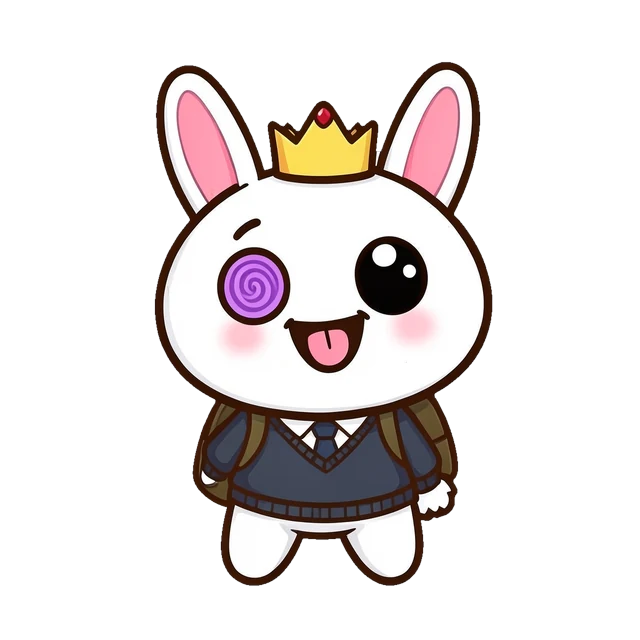
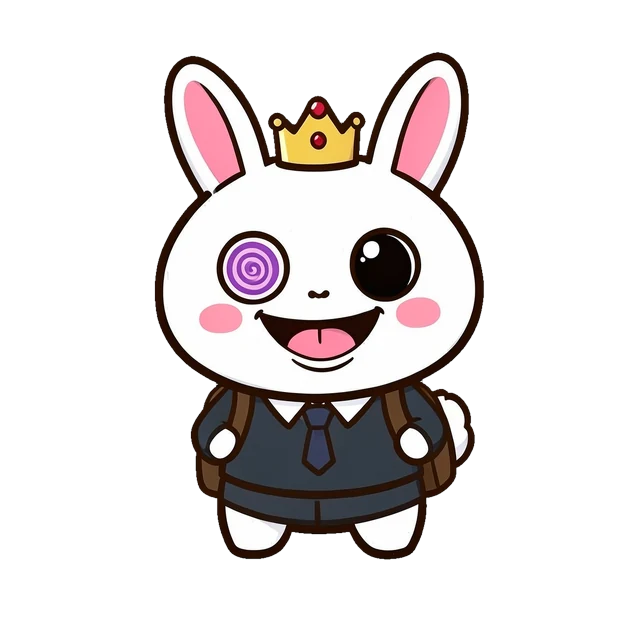
alfa 8c011c8: Pets: bases de CrazyBunny sobre la pose loco solo de cara

Changed region(s): [[0.2188, 0.0625, 0.7812, 0.9375]]

diff --git a/alfa/index.html b/alfa/index.html
@@ -10,10 +10,10 @@
 <link rel="preconnect" href="https://fonts.googleapis.com">
 <link rel="preconnect" href="https://fonts.gstatic.com" crossorigin>
 <link rel="stylesheet" href="https://fonts.googleapis.com/css2?family=Baloo+2:wght@600;700;800&family=Luckiest+Guy&display=swap">
-<link rel="stylesheet" href="core/css/base.css?v=6844b12">
-<link rel="stylesheet" href="biblioteca/tienda.css?v=6844b12">
-<link rel="stylesheet" href="novedades/ventana.css?v=6844b12">
-<link rel="stylesheet" href="biblioteca/votos.css?v=6844b12">
+<link rel="stylesheet" href="core/css/base.css?v=8c011c8">
+<link rel="stylesheet" href="biblioteca/tienda.css?v=8c011c8">
+<link rel="stylesheet" href="novedades/ventana.css?v=8c011c8">
+<link rel="stylesheet" href="biblioteca/votos.css?v=8c011c8">
 <style>
   /* la entrada de la web: una tarjeta por juego, con los colores y las letras de core */
   body { overflow: auto; touch-action: auto; align-items: flex-start; background-repeat: no-repeat; background-attachment: fixed; }
@@ -61,7 +61,7 @@
 </style>
 </head>
 <body>
-<script src="menu.js?v=6844b12" data-base="" data-core="1" data-pagina=""></script>
+<script src="menu.js?v=8c011c8" data-base="" data-core="1" data-pagina=""></script>
 <div class="nov-fondo" id="novedades" hidden>
   <div class="nov-caja" role="dialog" aria-modal="true" aria-labelledby="nov-titulo">
     <div class="nov-cabeza"><h2 class="ol" id="nov-titulo">NOVEDADES</h2><p id="nov-sub"></p></div>
@@ -345,8 +345,8 @@
   </section>
   <p class="note" id="pie-fansof">Fans Of™ · © 2026 Arkioner y Pepins · MicroBlizz · Todos los derechos reservados</p>
 </main>
-<script src="core/js/nucleo.js?v=0-a806.6844b12"></script>
-<script src="core/js/novedades.js?v=6844b12"></script>
+<script src="core/js/nucleo.js?v=0-a807.8c011c8"></script>
+<script src="core/js/novedades.js?v=8c011c8"></script>
 <script>
 // La cuenta de la web es la misma de los juegos (core/js/sistema/cuenta.js, mismo navegador = misma sesión). Aquí no hay partida que subir.
 const AJUSTES = { id: 'web', guardado: 'fansof-web' }, SAVE_KEY = AJUSTES.guardado, SAVE = {};
@@ -355,7 +355,7 @@ const HOOKS = {};
 function hook(name, fn) { (HOOKS[name] = HOOKS[name] || []).push(fn); }
 function fire(name, ...a) { let out = ''; for (const fn of HOOKS[name] || []) { const r = fn(...a); if (typeof r === 'string') out += r; } return out; }
 </script>
-<script src="core/js/sistema/cuenta.js?v=6844b12"></script>
+<script src="core/js/sistema/cuenta.js?v=8c011c8"></script>
 <script>NUCLEO.idiomaSolo({ en: ['core/idioma/en-raiz.js', 'novedades/en.js', 'biblioteca/en.js','games/rumble/idioma/en-7.js', 'games/td/idioma/en-2.js', 'games/survivors/idioma/en.js', 'games/crush/idioma/en-raiz.js', 'games/jump/idioma/en-raiz.js', 'games/taxi/idioma/en-raiz.js', 'games/dark/idioma/en-raiz.js', 'games/nova/idioma/en-raiz.js', 'demos/beams/idioma/en-raiz.js', 'demos/snakes/idioma/en-raiz.js', 'demos/merge/idioma/en-raiz.js', 'demos/swipe/idioma/en-raiz.js', 'demos/pop/idioma/en-raiz.js', 'demos/vikings/idioma/en-raiz.js', 'demos/goose/idioma/en-raiz.js', 'demos/asalto/idioma/en-raiz.js', 'demos/auto/idioma/en-raiz.js', 'demos/shelter/idioma/en-raiz.js', 'games/island/idioma/en-raiz.js', 'demos/rumble-3d/idioma/en-raiz.js', 'demos/roguelite/idioma/en-raiz.js', 'demos/tactics-advance/idioma/en-raiz.js', 'games/rouflage/idioma/en-raiz.js', 'demos/dungeons/idioma/en-raiz.js', 'games/karts/idioma/en-raiz.js', 'demos/recruit/idioma/en-raiz.js', 'demos/terminal-shock/idioma/en-raiz.js', 'games/ratkov/idioma/en-raiz.js'] })</script>
 <script>
 // La versión y las novedades salen de los archivos de cada juego, así que esta página nunca se queda atrás.
@@ -381,14 +381,14 @@ const fail = id => () => {
 };
 
 </script>
-<script src="core/js/proximamente.js?v=6844b12"></script>
-<script src="novedades/ventana.js?v=6844b12"></script>
-<script src="biblioteca/tienda.js?v=6844b12"></script>
-<script src="core/js/sistema/beta.js?v=6844b12"></script>
-<script src="biblioteca/cuenta-web.js?v=6844b12"></script>
-<script src="biblioteca/votos.js?v=6844b12"></script>
-<script src="biblioteca/alfa.js?v=6844b12"></script>
-<script src="core/js/sistema/analitica.js?v=6844b12"></script>
-<script src="pie.js?v=6844b12" defer></script>
+<script src="core/js/proximamente.js?v=8c011c8"></script>
+<script src="novedades/ventana.js?v=8c011c8"></script>
+<script src="biblioteca/tienda.js?v=8c011c8"></script>
+<script src="core/js/sistema/beta.js?v=8c011c8"></script>
+<script src="biblioteca/cuenta-web.js?v=8c011c8"></script>
+<script src="biblioteca/votos.js?v=8c011c8"></script>
+<script src="biblioteca/alfa.js?v=8c011c8"></script>
+<script src="core/js/sistema/analitica.js?v=8c011c8"></script>
+<script src="pie.js?v=8c011c8" defer></script>
 </body>
 </html>

diff --git a/alfa/games/pets/js/anclas.js b/alfa/games/pets/js/anclas.js
@@ -10,9 +10,9 @@ PT.anclas = (() => {
   const ENCUADRE = {
     'bebe-base': [0.8279, 0.0852, 0.0778], 'bebe-comer': [0.8279, 0.0852, 0.0778], 'bebe-beber': [0.8279, 0.0852, 0.0778],
     'bebe-bano': [0.84, 0.0755, 0.0776], 'bebe-ducha': [0.7296, 0.1359, 0.1746],
-    'nino-base-loco': [0.8982, 0.047, 0.0777], 'nino-comer': [0.8589, 0.0479, 0.0681], 'nino-beber': [0.8589, 0.0479, 0.0681],
+    'nino-base-loco': [0.8579, 0.0472, 0.0691], 'nino-comer': [0.8589, 0.0479, 0.0681], 'nino-beber': [0.8589, 0.0479, 0.0681],
     'nino-bano': [0.8309, 0.0732, 0.0855], 'nino-ducha': [0.7602, 0.1258, 0.1616],
-    'adulto-liso': [0.859, 0.068, 0.0689], 'adulto-base-loco': [0.8865, 0.0606, 0.082], 'adulto-comer': [0.859, 0.0684, 0.0689],
+    'adulto-liso': [0.859, 0.068, 0.0689], 'adulto-base-loco': [0.8601, 0.0678, 0.0687], 'adulto-comer': [0.859, 0.0684, 0.0689],
     'adulto-beber': [0.859, 0.0684, 0.0689], 'adulto-bano': [0.831, 0.0727, 0.0862], 'adulto-ducha': [0.7329, 0.1278, 0.1872],
   };
   const T = {
@@ -23,7 +23,7 @@ PT.anclas = (() => {
     'bebe-ducha': [[0.396, 0.531, 0.049, 0.052], [0.616, 0.533, 0.051, 0.053], [0.506, 0.645]],
     'nino-liso': [[0.367, 0.457, 0.065, 0.066], [0.686, 0.457, 0.066, 0.066], [0.526, 0.596]],
     'nino-base-concentrado': [[0.378, 0.388, 0.057, 0.06], [0.626, 0.383, 0.061, 0.062], [0.502, 0.517]],
-    'nino-base-loco': [[0.383, 0.402, 0.065, 0.069], [0.624, 0.382, 0.066, 0.069], [0.504, 0.547]],
+    'nino-base-loco': [[0.383, 0.402, 0.047, 0.048], [0.641, 0.402, 0.047, 0.048], [0.512, 0.504]],
     'nino-base-carinoso': [[0.38, 0.434, 0.055, 0.059], [0.625, 0.401, 0.057, 0.057], [0.502, 0.557]],
     'nino-base-gamberro': [[0.384, 0.376, 0.059, 0.059], [0.616, 0.37, 0.061, 0.06], [0.5, 0.501]],
     'nino-base-dormilon': [[0.379, 0.427, 0.061, 0.055], [0.616, 0.4, 0.066, 0.04], [0.498, 0.542]],
@@ -33,7 +33,7 @@ PT.anclas = (() => {
     'nino-ducha': [[0.384, 0.491, 0.048, 0.048], [0.624, 0.493, 0.048, 0.048], [0.504, 0.595]],
     'adulto-liso': [[0.372, 0.424, 0.062, 0.062], [0.637, 0.415, 0.059, 0.061], [0.504, 0.556]],
     'adulto-base-concentrado': [[0.379, 0.417, 0.059, 0.062], [0.624, 0.402, 0.059, 0.061], [0.502, 0.548]],
-    'adulto-base-loco': [[0.379, 0.411, 0.061, 0.068], [0.621, 0.393, 0.064, 0.068], [0.5, 0.554]],
+    'adulto-base-loco': [[0.385, 0.4, 0.047, 0.053], [0.615, 0.397, 0.049, 0.053], [0.5, 0.512]],
     'adulto-base-carinoso': [[0.379, 0.422, 0.056, 0.06], [0.612, 0.382, 0.057, 0.059], [0.496, 0.548]],
     'adulto-base-gamberro': [[0.382, 0.415, 0.059, 0.059], [0.624, 0.393, 0.059, 0.057], [0.503, 0.538]],
     'adulto-base-dormilon': [[0.378, 0.424, 0.06, 0.055], [0.591, 0.387, 0.07, 0.043], [0.484, 0.539]],

diff --git a/alfa/games/rouflage/index.html b/alfa/games/rouflage/index.html
@@ -10,7 +10,7 @@
 <link rel="preconnect" href="https://fonts.googleapis.com">
 <link rel="preconnect" href="https://fonts.gstatic.com" crossorigin>
 <link rel="stylesheet" href="https://fonts.googleapis.com/css2?family=Baloo+2:wght@600;700;800&family=Luckiest+Guy&display=swap">
-<script src="../../core/js/nucleo.js?v=0.2.63-a806.6844b12"></script>
+<script src="../../core/js/nucleo.js?v=0.2.63-a807.8c011c8"></script>
 <script>NUCLEO.estilos('../../core/css/base.css', '../../core/css/menus.css', '../../core/css/menus-extra.css')</script>
 <script>NUCLEO.estilos('estilo.css', 'estilo-taller.css', 'estilo-pantallas.css', 'estilo-pvp.css', 'estilo-armario.css', 'estilo-menus.css', 'estilo-misiones.css', 'estilo-escenario.css', 'estilo-votos.css', 'estilo-gacha.css', 'estilo-compra.css', 'estilo-fin.css', 'estilo-talentos.css', 'estilo-chat.css', 'estilo-titulo.css', 'estilo-barra.css', 'estilo-sala-viva.css', 'estilo-obra.css', 'estilo-ayuda.css', 'estilo-carga.css')</script>      <!-- la intro, la última: pisa el #carga de estilo.css (antes iba en línea dentro de #carga) -->
 </head>

diff --git a/alfa/demos/rumble-v2/index.html b/alfa/demos/rumble-v2/index.html
@@ -18,7 +18,7 @@
 <!-- core/js/nucleo.js carga lo común y el juego. LA VERSIÓN SE ESCRIBE SOLO AQUÍ, en su ?v= -->
 <!-- GENERADO por herramientas/rumble_v2.py desde games/rumble/index.html: no editar a mano -->
 <script>try { const u = new URL(location.href); if (u.searchParams.get('nube') !== '0') { u.searchParams.set('nube', '0'); history.replaceState(null, '', u); } } catch (e) { /* sin dirección */ }</script>
-<script src="../../core/js/nucleo.js?v=0.9.158-a806.6844b12"></script>
+<script src="../../core/js/nucleo.js?v=0.9.158-a807.8c011c8"></script>
 <script>NUCLEO.estilos('../../core/css/menus.css', '../../games/rumble/css/estilos-partida.css', '../../games/rumble/css/estilos-extra.css', '../../games/rumble/css/arena.css', '../../core/css/biblioteca.css', '../../games/rumble/css/facciones-y-jefes.css', '../../core/css/clasificacion.css', '../../games/rumble/css/frases.css', '../../games/rumble/css/mitica.css', '../../games/rumble/css/paletas.css')</script>
 
 </head>

diff --git a/alfa/games/karts/index.html b/alfa/games/karts/index.html
@@ -8,7 +8,7 @@
 <meta name="description" content="Fans of Karts (juego): carreras de karts en pixel art de consola portátil con los líderes de Fans of Rumble. Tres pistas, seis pilotos, objetos con mala idea y Microblizz, que ha comprado la carrera.">
 <link rel="icon" type="image/png" href="img/icon-192.png">
 <link rel="apple-touch-icon" href="img/icon-192.png">
-<script src="../../core/js/nucleo.js?v=0.7.15-a806.6844b12"></script>
+<script src="../../core/js/nucleo.js?v=0.7.15-a807.8c011c8"></script>
 <script>NUCLEO.estilos('../../core/css/base.css', '../../core/css/menus.css', '../../core/css/menus-tienda.css', '../../core/css/menus-extra.css', 'css/tienda.css', 'css/pvp.css')</script>
 <link rel="stylesheet" href="https://fonts.googleapis.com/css2?family=Baloo+2:wght@600;700;800&family=Luckiest+Guy&display=swap">
 <style>

diff --git a/alfa/games/dark/index.html b/alfa/games/dark/index.html
@@ -12,7 +12,7 @@
 <link rel="stylesheet" href="https://fonts.googleapis.com/css2?family=Baloo+2:wght@600;700;800&family=Luckiest+Guy&family=Press+Start+2P&family=Pixelify+Sans:wght@400;600;700&display=swap">
 <link rel="stylesheet" href="css/dark.css?v=0.2.4">
 <!-- Prototipo: no usa NUCLEO (tiene su propia partida guardada). Carga de core el arte, la música, los efectos y las cifras del Rumble.
-     VERSIÓN para desplegar.py (que la busca así): nucleo.js?v=0.2.7-a806.6844b12' (aquí solo se anota; súbela junto al ?v= de los scripts). -->
+     VERSIÓN para desplegar.py (que la busca así): nucleo.js?v=0.2.7-a807.8c011c8' (aquí solo se anota; súbela junto al ?v= de los scripts). -->
 </head>
 <body>
 <canvas id="cv" aria-label="Mazmorra"></canvas>

diff --git a/alfa/games/rumble/index.html b/alfa/games/rumble/index.html
@@ -16,7 +16,7 @@
 <link rel="preconnect" href="https://fonts.gstatic.com" crossorigin>
 <link rel="stylesheet" href="https://fonts.googleapis.com/css2?family=Baloo+2:wght@600;700;800&family=Luckiest+Guy&display=swap">
 <!-- core/js/nucleo.js carga lo común y el juego. LA VERSIÓN SE ESCRIBE SOLO AQUÍ, en su ?v= -->
-<script src="../../core/js/nucleo.js?v=0.9.158-a806.6844b12"></script>
+<script src="../../core/js/nucleo.js?v=0.9.158-a807.8c011c8"></script>
 <script>NUCLEO.estilos('../../core/css/menus.css', 'css/estilos-partida.css', 'css/estilos-extra.css', 'css/arena.css', '../../core/css/biblioteca.css', 'css/facciones-y-jefes.css', '../../core/css/clasificacion.css', 'css/frases.css', 'css/mitica.css', 'css/paletas.css')</script>
 
 </head>

diff --git a/alfa/games/jump/index.html b/alfa/games/jump/index.html
@@ -12,7 +12,7 @@
 <link rel="preconnect" href="https://fonts.gstatic.com" crossorigin>
 <link rel="stylesheet" href="https://fonts.googleapis.com/css2?family=Baloo+2:wght@600;700;800&family=Luckiest+Guy&display=swap">
 <!-- ?v= es la versión del juego (la misma en la web y en la app): súbela al publicar y pon su entrada en js/novedades.js -->
-<script src="../../core/js/nucleo.js?v=0.3.16-a806.6844b12"></script>
+<script src="../../core/js/nucleo.js?v=0.3.16-a807.8c011c8"></script>
 <script>NUCLEO.estilos('../../core/css/base.css', '../../core/css/menus.css')</script>
 <style>
 /* Fans of Jump: un solo canvas a la resolución real de la pantalla, con los dibujos 3D. El mundo mide unos 200 de ancho y se

diff --git a/alfa/games/decks/index.html b/alfa/games/decks/index.html
@@ -15,7 +15,7 @@
 <link rel="preconnect" href="https://fonts.gstatic.com" crossorigin>
 <link rel="stylesheet" href="https://fonts.googleapis.com/css2?family=Baloo+2:wght@600;700;800&family=Luckiest+Guy&display=swap">
 <!-- core/js/nucleo.js carga lo común y el juego. LA VERSIÓN SE ESCRIBE SOLO AQUÍ, en su ?v= -->
-<script src="../../core/js/nucleo.js?v=0.2.21-a806.6844b12"></script>
+<script src="../../core/js/nucleo.js?v=0.2.21-a807.8c011c8"></script>
 <script>NUCLEO.estilos('../../core/css/base.css', '../../core/css/menus.css', 'css/decks.css', 'css/decks-reunion.css', 'css/decks-anim.css', 'css/decks-campana.css', 'css/decks-lideres.css')</script>
 </head>
 <body>

diff --git a/alfa/games/ratkov/index.html b/alfa/games/ratkov/index.html
@@ -13,7 +13,7 @@
 <link rel="preconnect" href="https://fonts.gstatic.com" crossorigin>
 <link rel="stylesheet" href="https://fonts.googleapis.com/css2?family=VT323&family=Russo+One&display=swap">
 <script src="https://cdnjs.cloudflare.com/ajax/libs/three.js/r128/three.min.js"></script>
-<script src="../../core/js/nucleo.js?v=0.2.29-a806.6844b12"></script>
+<script src="../../core/js/nucleo.js?v=0.2.29-a807.8c011c8"></script>
 <script>NUCLEO.estilos('../../core/css/base.css', '../../core/css/menus.css')</script>
 <link rel="stylesheet" href="estilo.css?v=0.2.3">
 <link rel="stylesheet" href="estilo-refugio.css?v=0.2.3">

diff --git a/alfa/games/survivors/index.html b/alfa/games/survivors/index.html
@@ -15,7 +15,7 @@
 <link rel="preconnect" href="https://fonts.gstatic.com" crossorigin>
 <link rel="stylesheet" href="https://fonts.googleapis.com/css2?family=Baloo+2:wght@600;700;800&family=Luckiest+Guy&display=swap">
 <!-- core/js/nucleo.js carga lo común y el juego. LA VERSIÓN SE ESCRIBE SOLO AQUÍ, en su ?v= -->
-<script src="../../core/js/nucleo.js?v=0.1.71-a806.6844b12"></script>
+<script src="../../core/js/nucleo.js?v=0.1.71-a807.8c011c8"></script>
 <script>NUCLEO.estilos('../../core/css/base.css', '../../core/css/menus.css', 'css/survivors.css', '../../core/css/biblioteca.css')</script>
 </head>
 <body>

diff --git a/alfa/games/td/index.html b/alfa/games/td/index.html
@@ -15,7 +15,7 @@
 <link rel="preconnect" href="https://fonts.gstatic.com" crossorigin>
 <link rel="stylesheet" href="https://fonts.googleapis.com/css2?family=Baloo+2:wght@600;700;800&family=Luckiest+Guy&display=swap">
 <!-- core/js/nucleo.js carga lo común y el juego. LA VERSIÓN SE ESCRIBE SOLO AQUÍ, en su ?v= -->
-<script src="../../core/js/nucleo.js?v=0.13.87-a806.6844b12"></script>
+<script src="../../core/js/nucleo.js?v=0.13.87-a807.8c011c8"></script>
 <script>NUCLEO.estilos('../../core/css/base.css', 'css/td.css', '../../core/css/menus.css', '../../core/css/biblioteca.css')</script>
 </head>
 <body>
